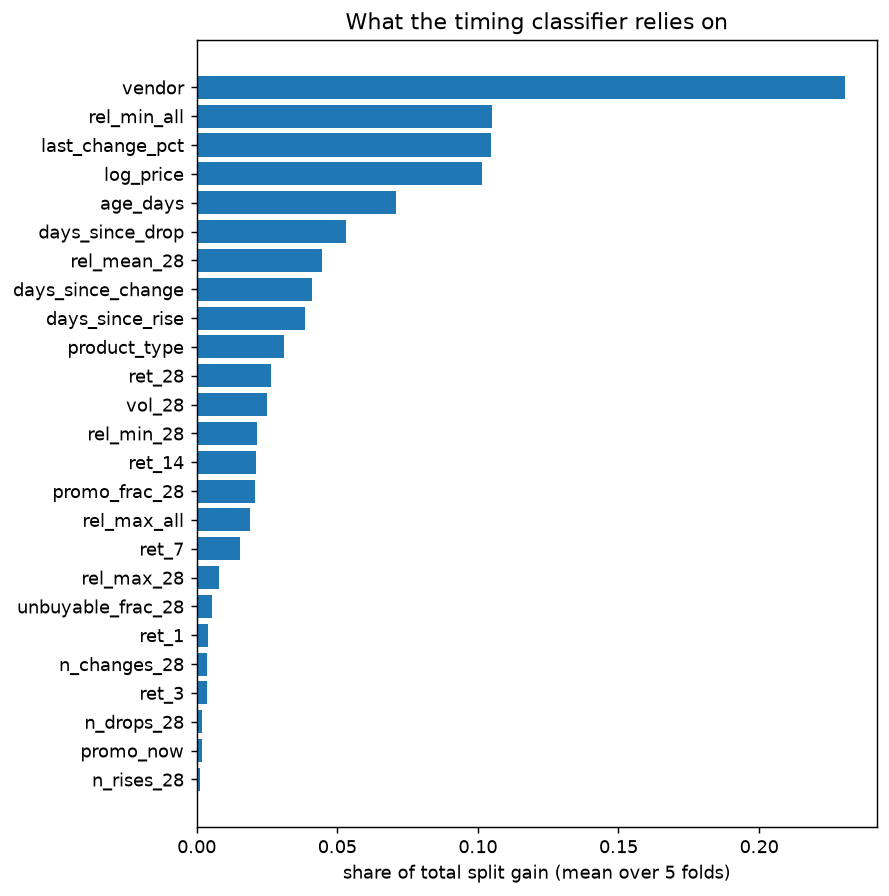
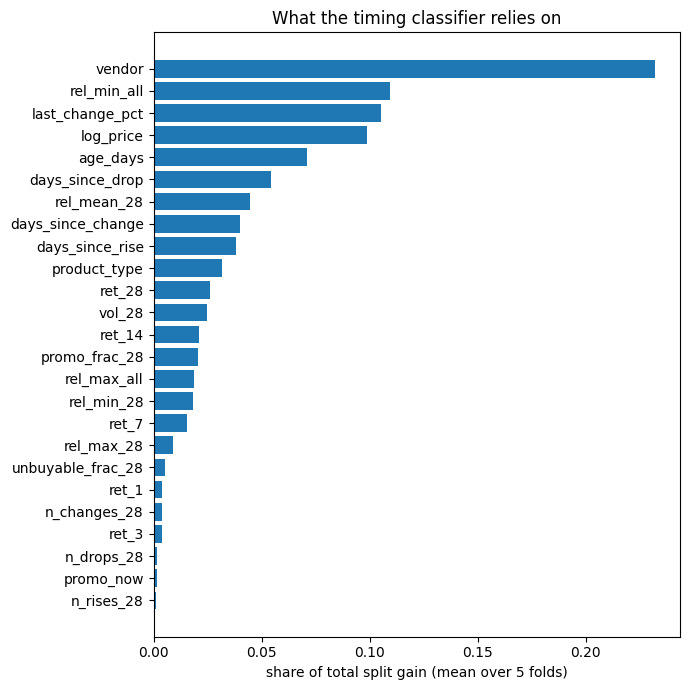
Journal and slides: quote the saved Colab run; Colab figures

Changed region(s): [[0.0, 0.0, 1.0, 0.9739], [0.3348, 0.913, 0.8826, 1.0], [0.2739, 0.5174, 0.3043, 0.5783]]

diff --git a/report/journal.md b/report/journal.md
@@ -136,9 +136,9 @@ expected calibration error (ECE), depth MAE in percentage points and dollars, sk
 
 ## 2.3 Results
 
-All numbers are from the saved run of the published notebook (LightGBM 4.7.0, scikit-learn 1.9.1). Re-running it on Colab, with other library
-versions, changes metrics only in the third decimal (for example GroupKFold PR-AUC 0.848 instead of 0.852, time-split log loss 0.615 instead of 0.640,
-model saving $23.37 instead of $23.57); every comparison and conclusion below is unchanged.
+All numbers and figures are from the Colab run saved in the published notebook. Re-running with other library versions (e.g. locally with
+LightGBM 4.7.0) changes metrics only in the third decimal (GroupKFold PR-AUC 0.852 instead of 0.848, model saving $23.57 instead of $23.37);
+every comparison and conclusion below is unchanged.
 
 **Label distribution.** 1-7 days: 5.8%, 8-14 days: 4.8%, 15-28 days: 5.7%, no drop within 28 days: 83.7%.
 
@@ -147,16 +147,16 @@ model saving $23.37 instead of $23.57); every comparison and conclusion below is
 
 | model                                      | log loss (lower better) | Brier             | ROC-AUC           | PR-AUC            | ECE           |
 | ------------------------------------------ | ----------------------- | ----------------- | ----------------- | ----------------- | ------------- |
-| Baseline A: overall class frequencies      | 0.624 ± 0.005           | 0.291 ± 0.003     | 0.500             | 0.163 ± 0.002     | 0.002         |
-| Baseline B: class frequencies per category | 0.601 ± 0.005           | 0.283 ± 0.003     | 0.655 ± 0.005     | 0.247 ± 0.005     | 0.003         |
-| **LightGBM**                               | **0.271 ± 0.008**       | **0.130 ± 0.004** | **0.953 ± 0.003** | **0.852 ± 0.006** | 0.008 ± 0.002 |
+| Baseline A: overall class frequencies      | 0.624 ± 0.008           | 0.291 ± 0.004     | 0.500             | 0.163 ± 0.003     | 0.003         |
+| Baseline B: class frequencies per category | 0.601 ± 0.006           | 0.283 ± 0.004     | 0.655 ± 0.005     | 0.247 ± 0.009     | 0.005         |
+| **LightGBM**                               | **0.276 ± 0.007**       | **0.133 ± 0.003** | **0.952 ± 0.002** | **0.848 ± 0.003** | 0.008 ± 0.002 |
 
 
-- Skill vs the per-category baseline: **54.9%** lower log loss, **54.0%** lower Brier score.
-- 95% bootstrap CIs (resampling SKUs): PR-AUC LightGBM [0.846, 0.860] vs baseline B [0.245, 0.261]; log loss [0.263, 0.278] vs [0.592, 0.610]. The intervals do not overlap.
+- Skill vs the per-category baseline: **54.1%** lower log loss, **53.1%** lower Brier score.
+- 95% bootstrap CIs (resampling SKUs): PR-AUC LightGBM [0.841, 0.856] vs baseline B [0.245, 0.260]; log loss [0.268, 0.282] vs [0.592, 0.610]. The intervals do not overlap.
 - Calibration: the reliability curve lies on the diagonal (ECE 0.008): when the model says 30%, about 30% of those products drop.
-- **Drop depth** (samples with a drop): MAE **3.8 percentage points ($32.56)** vs 7.9 pp ($62.99) for the per-category median baseline.
-- Every category beats its baseline; the weakest is games hardware (PR-AUC 0.70 vs 0.14), the strongest phones (0.95 vs 0.26).
+- **Drop depth** (samples with a drop): MAE **3.8 percentage points ($32.27)** vs 7.9 pp ($63.04) for the per-category median baseline.
+- Every category beats its baseline; the weakest is games hardware (PR-AUC 0.69 vs 0.14), the strongest phones (0.94 vs 0.26).
 
 ![Reliability curve (left) and PR-AUC per category against the random-guess level (right).](figures/calibration_and_categories.png)
 
@@ -165,15 +165,15 @@ model saving $23.37 instead of $23.57); every comparison and conclusion below is
 
 | true / predicted | 1-7 d    | 8-14 d   | 15-28 d  | no drop  |
 | -------------- | -------- | -------- | -------- | -------- |
-| 1-7 days       | **0.65** | 0.04     | 0.03     | 0.29     |
-| 8-14 days      | 0.07     | **0.60** | 0.04     | 0.29     |
-| 15-28 days     | 0.05     | 0.04     | **0.51** | 0.40     |
+| 1-7 days       | **0.64** | 0.04     | 0.03     | 0.30     |
+| 8-14 days      | 0.07     | **0.59** | 0.04     | 0.30     |
+| 15-28 days     | 0.05     | 0.05     | **0.48** | 0.42     |
 | no drop        | 0.01     | 0.01     | 0.01     | **0.98** |
 
 
-Near-term drops are recognised best; drops 15-28 days away are predicted as "no drop" 40% of the time — the further ahead, the less the current price pattern says.
+Near-term drops are recognised best; drops 15-28 days away are predicted as "no drop" 42% of the time — the further ahead, the less the current price pattern says.
 
-**What the model uses** (share of split gain): `vendor` 23.0%, `rel_min_all` 10.5%, `last_change_pct` 10.5%, `log_price` 10.1%, `age_days` 7.1%, `days_since_drop` 5.3%.
+**What the model uses** (share of split gain, approximate): `vendor` 23%, `rel_min_all` 11%, `last_change_pct` 10.5%, `log_price` 10%, `age_days` 7%, `days_since_drop` 5.5%.
 The dominant pattern (visible in the Top-10 plots) is JB's promotional cycle: a product that has just returned from a sale price to its regular price
 (`last_change_pct` > 0, price well above its historical minimum) is likely to be discounted again soon.
 
@@ -186,13 +186,13 @@ The dominant pattern (visible in the Top-10 plots) is JB's promotional cycle: a 
 | ------------------------- | --------- | --------- | --------- | --------- | ----- |
 | Baseline A: overall       | 0.604     | 0.280     | 0.500     | 0.156     | 0.004 |
 | Baseline B: per category  | **0.580** | 0.272     | 0.667     | 0.243     | 0.022 |
-| **LightGBM**              | 0.640     | 0.259     | **0.824** | **0.508** | 0.071 |
-| LightGBM + class weights  | 0.678     | 0.274     | 0.816     | 0.492     | 0.080 |
-| LightGBM without `vendor` | 0.605     | **0.259** | 0.787     | 0.463     | 0.058 |
+| **LightGBM**              | 0.615     | **0.256** | **0.824** | **0.508** | 0.067 |
+| LightGBM + class weights  | 0.677     | 0.275     | 0.817     | 0.497     | 0.078 |
+| LightGBM without `vendor` | 0.603     | 0.258     | 0.789     | 0.467     | 0.059 |
 
 
 On a later period the picture is mixed. The model still **ranks** products far better than the baselines (PR-AUC 0.51 vs 0.24, ROC-AUC 0.82 vs 0.67)
-and has the best Brier score, but its **log loss is worse than the per-category baseline** (0.640 vs 0.580) and it is less well calibrated (ECE 0.071).
+and has the best Brier score, but its **log loss is worse than the per-category baseline** (0.615 vs 0.580) and it is less well calibrated (ECE 0.067).
 Log loss punishes confident mistakes very heavily: promotions in late August did not repeat July's pattern for some brands, and the model was confidently wrong on them.
 So the model is reliable for *ordering* products by how likely they are to drop, but its probabilities should be recalibrated on recent data before being shown to users (section 2.4).
 Class weighting made both ranking and calibration worse, confirming the decision to train unweighted.
@@ -204,11 +204,11 @@ Class weighting made both ranking and calibration worse, confirming the decision
 | ------------------------------------------------------- | ------------------------- | ------------ | ----------------------- | --------- | ---------------- | ---------------------- |
 | Buy now                                                 | 0.00                      | 0.00         | 0%                      | 0%        | 0                | —                      |
 | Always wait (buy at first drop, else day 28)            | 8.53                      | −0.29        | 31%                     | 100%      | 25.4             | 0.34                   |
-| **Model** (WAIT if P(drop) > τ, τ = 0.15 in every fold) | **23.57**                 | **2.62**     | **86%**                 | 23%       | **4.1**          | **5.73**               |
+| **Model** (WAIT if P(drop) > τ; τ = 0.15 in 4 folds, 0.20 in 1) | **23.37**                 | **2.60**     | **86%**                 | 22.5%     | **4.0**          | **5.82**               |
 | Oracle (knows the future)                               | 27.29                     | 3.19         | 100%                    | 17%       | 2.3              | 11.92                  |
 
 
-95% bootstrap CI for the model's mean saving: **[$22.31, $24.82]** per purchase. Following the model captures 86% of the savings a perfect-foresight
+95% bootstrap CI for the model's mean saving: **[$22.13, $24.77]** per purchase. Following the model captures 86% of the savings a perfect-foresight
 shopper would get, while waiting on average about 4 days; "always wait" makes shoppers wait 25 days for a third of the benefit
 (and on average *loses* 0.29% of the price, because prices sometimes rise while waiting).
 
@@ -219,11 +219,11 @@ shopper would get, while waiting on average about 4 days; "always wait" makes sh
 
 | features                                                   | log loss  | Brier     | ROC-AUC   | PR-AUC    | ECE       | best mean saving |
 | ---------------------------------------------------------- | --------- | --------- | --------- | --------- | --------- | ---------------- |
-| JB features only                                           | 0.530     | 0.264     | 0.938     | 0.900     | 0.019     | $67.37           |
-| JB + The Good Guys (`tgg_gap`, `tgg_ret_7`, `tgg_cheaper`) | **0.522** | **0.260** | **0.940** | **0.904** | **0.016** | **$68.17**       |
+| JB features only                                           | 0.531     | 0.266     | 0.937     | 0.902     | 0.013     | $67.09           |
+| JB + The Good Guys (`tgg_gap`, `tgg_ret_7`, `tgg_cheaper`) | **0.523** | **0.262** | **0.939** | **0.905** | **0.012** | **$67.36**       |
 
 
-Answer: **a small, consistent improvement.** Competitor features improve every metric slightly (log loss −1.5%, PR-AUC +0.004, +$0.80 saved per purchase),
+Answer: **a small, consistent improvement.** Competitor features improve every metric slightly (log loss −1.5%, PR-AUC +0.003, +$0.27 saved per purchase),
 consistent with price matching, but the gain is small compared with what JB's own price history provides.
 Products sold by both retailers drop much more often (36% vs 16%), so they are also where a shopper gains most from waiting.
 
@@ -235,16 +235,16 @@ preferring products The Good Guys also sells, then the highest price.
 
 | category            | product                            | price now | P(drop ≤ 28 d) | expected drop if it drops | recommendation |
 | ------------------- | ---------------------------------- | --------- | -------------- | ------------------------- | -------------- |
-| Audio               | JBL BAR 1300 MK2 soundbar          | $1,999    | 0.016          | 9.8%                      | BUY NOW        |
-| Cameras             | Antigravity A1 8K 360 drone bundle | $2,799    | 0.128          | 17.1%                     | BUY NOW        |
-| Phones              | Apple iPhone Air 1TB               | $3,099    | 0.007          | 17.3%                     | BUY NOW        |
-| Computers           | Apple MacBook Pro 16" M5 Max 2TB   | $7,999    | 0.000          | 17.5%                     | BUY NOW        |
-| Games hardware      | Xbox Series X 1TB Digital          | $999      | 0.015          | 19.6%                     | BUY NOW        |
-| Health & beauty     | NutriBullet Baby Steam & Blend     | $179      | 0.985          | 20.5% (→ $142)            | WAIT           |
-| Small appliances    | Jura Z10 coffee machine            | $4,499    | 0.009          | 5.1%                      | BUY NOW        |
-| TVs                 | LG 97" OLED evo G6 [2026]          | $29,995   | 0.677          | 9.0% (→ $27,287)          | WAIT           |
-| Whitegoods          | ASKO heat-pump drying cabinet      | $6,999    | 0.007          | 6.8%                      | BUY NOW        |
-| Wearables & Outdoor | Pioneer SPH-EVO107DAB AV receiver  | $1,249    | 0.096          | 8.3%                      | BUY NOW        |
+| Audio               | JBL BAR 1300 MK2 soundbar          | $1,999    | 0.015          | 10.0%                     | BUY NOW        |
+| Cameras             | Antigravity A1 8K 360 drone bundle | $2,799    | 0.122          | 16.3%                     | BUY NOW        |
+| Phones              | Apple iPhone Air 1TB               | $3,099    | 0.016          | 19.2%                     | BUY NOW        |
+| Computers           | Apple MacBook Pro 16" M5 Max 2TB   | $7,999    | 0.000          | 17.0%                     | BUY NOW        |
+| Games hardware      | Xbox Series X 1TB Digital          | $999      | 0.016          | 19.9%                     | BUY NOW        |
+| Health & beauty     | NutriBullet Baby Steam & Blend     | $179      | 0.987          | 19.6% (→ $144)            | WAIT           |
+| Small appliances    | Jura Z10 coffee machine            | $4,499    | 0.005          | 7.4%                      | BUY NOW        |
+| TVs                 | LG 97" OLED evo G6 [2026]          | $29,995   | 0.664          | 8.6% (→ $27,414)          | WAIT           |
+| Whitegoods          | ASKO heat-pump drying cabinet      | $6,999    | 0.004          | 7.2%                      | BUY NOW        |
+| Wearables & Outdoor | Pioneer SPH-EVO107DAB AV receiver  | $1,249    | 0.134          | 7.4%                      | BUY NOW        |
 
 
 Most flagships get BUY NOW: their prices have been flat for two weeks or more, a pattern that rarely precedes a drop within 28 days (Apple products
@@ -269,9 +269,9 @@ realised future prices, and is piecewise constant in the model's scores (no usef
 Cross-entropy rewards putting probability on the correct bucket and treats every sample equally. The shopper's objective differs in three ways:
 
 1. **Dollar size is ignored.** A missed $5 drop on a $99 speaker costs the same loss as a missed $2,625 drop on a $10,499 gaming laptop (the costliest miss
-  in the out-of-fold results: *Alienware Area-51 18"*, P(drop) = 0.004, dropped to $7,874). Cross-entropy can improve while savings get worse if the gains come from cheap products.
+  in the out-of-fold results: *Alienware Area-51 18"*, P(drop) = 0.014, dropped to $7,874). Cross-entropy can improve while savings get worse if the gains come from cheap products.
 2. **The cost of being wrong is asymmetric.** A WAIT that is wrong can be very expensive: for a *Samsung 115" QN90F* at a $14,921 promotional price the model said
-  WAIT (P = 0.93), but the promotion ended and the price returned to $26,995. Bucket loss does not know that "no drop" can also mean "price goes up".
+  WAIT (P = 0.80), but the promotion ended and the price returned to $26,995. Bucket loss does not know that "no drop" can also mean "price goes up".
 3. **Waiting has a cost** (time), which the loss does not see; "always wait" illustrates this — 25 days of waiting for $8.53.
 
 **Mitigations used:** the WAIT threshold τ is tuned on dollars saved (not on log loss), in a nested way; the savings table is reported alongside the loss; and
@@ -292,8 +292,8 @@ to users, the probabilities should be recalibrated on the most recent weeks (e.g
 - **The unseen-product split is optimistic.** GroupKFold holds out products, not time: the training folds contain *other* products from the *same weeks*. Because
 JB runs brand- and category-wide promotions, the model can partly learn "this brand was discounted in week X" from other products and apply it to the held-out one
 (`vendor` being the top feature is consistent with this). The time split, which never trains on the test weeks, gives PR-AUC 0.51 instead of 0.85 and a log loss
-worse than the per-category baseline — this is the more honest estimate of real forecasting performance. Removing `vendor` in the time split lowers PR-AUC (0.46)
-but *improves* log loss (0.605) and calibration: brand information helps rank products going forward (brands have persistent discounting habits), but it also makes
+worse than the per-category baseline — this is the more honest estimate of real forecasting performance. Removing `vendor` in the time split lowers PR-AUC (0.47)
+but *improves* log loss (0.603) and calibration: brand information helps rank products going forward (brands have persistent discounting habits), but it also makes
 the model over-confident when a brand's promotion calendar changes, and part of its apparent value in GroupKFold is borrowed from the test period.
 - **Near-duplicate products.** Colour or storage variants of the same model have different SKUs and can fall in different folds, which also inflates GroupKFold slightly.
 - **The time-split test period (late August) is a quiet period** with no major sale events, and only one time split fits in 5 months.
@@ -305,7 +305,7 @@ the model over-confident when a brand's promotion calendar changes, and part of 
 - **Only ~5 months of data** (full catalogue from 1 May 2026): no Black Friday, Boxing Day or November Click Frenzy; the model cannot know yearly seasonality and was deliberately given no calendar features.
 - **Scrape gaps**: every 2-3 days, plus a 12-day gap (27 May - 8 Jun) during the end-of-financial-year sales; drop timing is only known to within a scrape interval.
 - **Censoring handled by exclusion**: decision days after 31 August are not used, wasting the last 4 weeks of data (a survival model could use them).
-- **Probability drift over time**: calibration degrades on a later period (ECE 0.071); a production system would need periodic retraining and recalibration.
+- **Probability drift over time**: calibration degrades on a later period (ECE 0.067); a production system would need periodic retraining and recalibration.
 - **Price errors in the source data**: a few listings show implausible jumps (e.g. a $2,539 tally light "dropping" to $179), which pass the persistence rule and count as drops.
 - **Missing drivers**: JB Perks member coupons, in-store-only prices, supplier promotions, new-model launches.
 - **Partial competitor coverage**: only 13% of samples match The Good Guys by model number; Harvey Norman data stopped on 20 Aug 2026 and was not used.

diff --git a/slides/qa_cheatsheet.md b/slides/qa_cheatsheet.md
@@ -2,26 +2,33 @@
 
 Answer short. "I don't know, I would check X" is a valid, point-earning answer.
 
-## Where things are in the notebook (cell numbers in the Colab notebook)
+## Where things are in the notebook (the [n] number Colab shows next to each code cell after "Run all")
 
-| component | cell | one-line answer |
+| component | code cell | one-line answer |
 |---|---|---|
-| Data download | 5 | `load()` downloads the Parquet snapshot from GitHub if not present. |
-| Partial scrape days removed | 7 | Days with < 50% of the rolling-median row count. |
-| Daily grid, buyable prices | 9 | Dates × SKUs matrix; prices kept only on days the listing was buyable (unknown before June counts as buyable). |
-| **Labels** | 11 | First day in t+1..t+28 with price ≤ 95% of today's, and the next scrape also ≤ 95%. Bucket 0/1/2/3; depth = 1 − drop price / price today. |
-| Decision dates | 13 | First scrape of each week, 8 Jun - 31 Aug (after that the 28-day future is unknown). |
-| **Features** | 15 | Rolling / cumulative windows ending at day t → no future information. |
-| Dummy interface | 17 | Rule-based predictor with the same input/output, written before the model. |
-| **Model, loss, optimiser** | 19 | `CLF_PARAMS` (multiclass = softmax cross-entropy), `REG_PARAMS` (huber, alpha = δ = 5), `fit_lgb` (early stopping on 10% of training SKUs). |
-| Metrics | 21 | `evaluate()`: log loss, Brier, ROC-AUC, PR-AUC, ECE. |
-| **Cross-validation** | 23 | 5-fold GroupKFold by SKU. |
-| Bootstrap CIs | 26 | Resample whole SKUs 200 times. |
-| Time split + class weights + no-vendor | 33 | Train ≤ 15 Jul, test 12-31 Aug. |
-| **Savings simulator** | 35 | WAIT if P(drop) > τ; τ chosen on the other 4 folds. |
-| Error analysis | 38 | Costliest WAIT mistakes / missed drops. |
-| Top-10 + `predict_drop` | 40-41 | One flagship per category; final model refit on all samples. |
-| Competitor ablation | 46 | The Good Guys price gap features, matched by model number. |
+| Setup, constants | [1] | 5% threshold, 28-day horizon, 4 bucket names, decision dates 1 Jun - 31 Aug. |
+| Data download | [2] | `load()` downloads the Parquet snapshot from GitHub if not present. |
+| Partial scrape days removed | [3] | Days with < 50% of the rolling-median row count. |
+| Daily grid, buyable prices | [4] | Dates × SKUs matrix; prices kept only on days the listing was buyable (unknown before June counts as buyable). |
+| **Labels** | [5] | First day in t+1..t+28 with price ≤ 95% of today's, and the next scrape also ≤ 95%. Bucket 0/1/2/3; depth = 1 − drop price / price today. |
+| Decision dates | [6] | First scrape of each week, 8 Jun - 31 Aug (after that the 28-day future is unknown). |
+| **Features** | [7] | Rolling / cumulative windows ending at day t → no future information. |
+| Dummy interface | [8] | Rule-based predictor with the same input/output, written before the model. |
+| **Model, loss, optimiser** | [9] | `CLF_PARAMS` (multiclass = softmax cross-entropy), `REG_PARAMS` (huber, alpha = δ = 5), `fit_lgb` (early stopping on 10% of training SKUs). |
+| Metrics | [10] | `evaluate()`: log loss, Brier, ROC-AUC, PR-AUC, ECE. |
+| **Cross-validation** | [11] | 5-fold GroupKFold by SKU. |
+| Skill scores, depth MAE | [12] | 1 − model / baseline. |
+| Bootstrap CIs | [13] | Resample whole SKUs 200 times. |
+| Calibration + per-category | [14] | Reliability curve; PR-AUC per category. |
+| Feature importance | [15] | Share of split gain. |
+| Timing confusion matrix | [16] | Rows = true bucket. |
+| Time split + class weights + no-vendor | [17] | Train ≤ 15 Jul, test 12-31 Aug. |
+| **Savings simulator** | [18]-[19] | WAIT if P(drop) > τ; τ chosen on the other 4 folds. |
+| Error analysis | [20] | Costliest WAIT mistakes / missed drops. |
+| Top-10 selection | [21] | One flagship per category. |
+| Final model + `predict_drop` | [22]-[23] | Refit on all samples; deployment interface. |
+| Top-10 timelines | [24] | Price history, real drops, out-of-fold P(drop). |
+| Competitor ablation | [25] | The Good Guys price gap features, matched by model number. |
 
 ## Likely questions
 
@@ -31,7 +38,7 @@ Answer short. "I don't know, I would check X" is a valid, point-earning answer.
 
 **What is the loss?** Multi-class cross-entropy: −log of the probability given to the true bucket. Example: true bucket gets 0.15 → loss 1.90.
 
-**Why cross-entropy and not accuracy?** 83% of samples are "no drop", so always predicting "no drop" gets 83% accuracy and is useless. Cross-entropy rewards good probabilities.
+**Why cross-entropy and not accuracy?** 84% of samples are "no drop", so always predicting "no drop" gets 84% accuracy and is useless. Cross-entropy rewards good probabilities.
 
 **Why PR-AUC?** Drops are the rare class; PR-AUC focuses on how precisely the model finds them. Random guessing gives PR-AUC = drop rate (0.16).
 
@@ -39,17 +46,19 @@ Answer short. "I don't know, I would check X" is a valid, point-earning answer.
 
 **Why is the time-split score lower?** GroupKFold trains on other products from the *same weeks*; if JB discounts a whole brand that week, the model sees it. The time split never sees the test weeks → honest.
 
-**Why no class weights?** Tested on the time split: PR-AUC 0.49 vs 0.51, log loss 0.678 vs 0.640, ECE 0.080 vs 0.071 — worse on every metric.
+**Why is the later-period log loss worse than the baseline?** Log loss punishes confident mistakes; some brands' late-August promotions did not follow July's pattern, and the model was confidently wrong (0.615 vs 0.580). It still ranks drops far better (PR-AUC 0.51 vs 0.24). Fix: recalibrate on recent weeks (isotonic regression), retrain regularly.
 
-**Why is the later-period log loss worse than the baseline?** Log loss punishes confident mistakes; some brands' late-August promotions did not follow July's pattern, and the model was confidently wrong. It still ranks drops far better (PR-AUC 0.51 vs 0.24). Fix: recalibrate on recent weeks (isotonic regression), retrain regularly.
+**Why no class weights?** Tested on the time split: PR-AUC 0.497 vs 0.508, log loss 0.677 vs 0.615, ECE 0.078 vs 0.067 — worse on every metric.
 
 **Why Huber for depth?** Squared error would be dominated by rare 40-60% clearance drops; Huber is quadratic below δ = 5 pp and linear above.
 
-**How many trees / leaves?** Up to 63 leaves per tree, learning rate 0.05, ~730-940 trees per fold (early stopping, patience 50).
+**How many trees / leaves?** Up to 63 leaves per tree, learning rate 0.05, ~680-850 trees per fold (early stopping, patience 50).
 
-**How is the WAIT threshold chosen?** Maximise mean dollars saved on the other 4 folds (nested); it came out 0.15 in every fold.
+**How is the WAIT threshold chosen?** Maximise mean dollars saved on the other 4 folds (nested); it came out 0.15 in four folds and 0.20 in one.
 
 **Why 0.15 and not 0.5?** Waiting when a drop does not come usually costs little (price mostly stays the same), but catching a drop saves a lot → the optimum is low.
+
+**Why do my Colab numbers differ slightly from a local run?** Different LightGBM / scikit-learn versions; differences are in the third decimal and no conclusion changes. The journal quotes the saved Colab run.
 
 **Is 5% arbitrary?** Yes, a design choice (smaller changes are noise / rounding); a sensitivity check with other thresholds is future work.
 
@@ -57,7 +66,7 @@ Answer short. "I don't know, I would check X" is a valid, point-earning answer.
 
 **What is censoring and how did you handle it?** For decision days after 31 Aug the 28-day future is not yet observed. I excluded them; a survival model could use them (future work).
 
-**Did competitor prices help?** Slightly: PR-AUC 0.900 → 0.904, log loss 0.530 → 0.522, +$0.80 saved per purchase, on the 2,095 products both retailers sell. Consistent with price matching, but small next to JB's own history.
+**Did competitor prices help?** Slightly: PR-AUC 0.902 → 0.905, log loss 0.531 → 0.523, +$0.27 saved per purchase, on the 2,095 products both retailers sell. Consistent with price matching, but small next to JB's own history.
 
 **Why did the numbers change from the first run?** The first run used a 20% product sample; the final run uses the full catalogue (15,322 products).
 

diff --git a/slides/slides.md b/slides/slides.md
@@ -14,7 +14,7 @@ recent price changes (1-28 days), price vs its own max/min, days since last chan
 **Ground truth:** read off my own scrapes 28 days later. Scored with log loss, PR-AUC, calibration, and **dollars saved**.
 
 > Speaker notes: "The input is one product on one day... the output is four probabilities that sum to one... I compare them with what my scraper saw in the following 28 days."
-> Point at notebook cell 11 (labels) if asked how the truth is built.
+> Point at code cell [5] in Colab (labels) if asked how the truth is built.
 
 ---
 
@@ -37,24 +37,24 @@ recent price changes (1-28 days), price vs its own max/min, days since last chan
 |---|---|---|
 | unseen products (5-fold GroupKFold) PR-AUC | 0.25 | **0.85** |
 | later period (train ≤ 15 Jul, test 12-31 Aug) PR-AUC | 0.24 | **0.51** |
-| log loss (GroupKFold) | 0.601 | **0.271** |
-| log loss (later period) | **0.580** | 0.640 |
+| log loss (GroupKFold) | 0.601 | **0.276** |
+| log loss (later period) | **0.580** | 0.615 |
 | depth error | 7.9 pp | **3.8 pp** |
 
 Calibration on unseen products: on the diagonal (ECE 0.008).
 **Critical point:** GroupKFold lets other products of the *same brand in the same week* into training → brand-wide promotions leak; the time split is the honest estimate.
 On the later period the model still ranks drops twice as well, but is over-confident (log loss worse than baseline) → needs recalibration on recent weeks.
 
-> Show notebook: reliability curve (cell 28), time-split table (cell 33).
+> Show notebook: reliability curve (code cell [14]), time-split table (code cell [17]).
 
 ---
 
 ## Slide 4 — Does it save money? + research question (1:00)
 
-* Buy-or-wait simulation: **model saves $23.57 per purchase (CI $22.31-24.82), 86% of a perfect-foresight oracle, waiting 4.1 days on average**;
+* Buy-or-wait simulation: **model saves $23.37 per purchase (CI $22.13-24.77), 86% of a perfect-foresight oracle, waiting 4.0 days on average**;
   "always wait" saves $8.53 after 25 days.
 * **Loss ≠ objective:** cross-entropy treats a $5 and a $1,500 miss the same; worst WAIT error: a Samsung 115" TV whose promo ended ($14,921 → $26,995). Threshold τ tuned on dollars, not on loss.
-* **Research question:** do The Good Guys' prices help? **A little** — on 2,095 shared products every metric improves slightly (PR-AUC 0.900 → 0.904, +$0.80 per purchase).
-* Demo: `predict_drop(892006, "2026-09-28")` → LG 97" OLED G6 at $29,995, back to full price on 25 Sep, P(drop) 0.68, **WAIT**.
+* **Research question:** do The Good Guys' prices help? **A little** — on 2,095 shared products every metric improves slightly (PR-AUC 0.902 → 0.905, +$0.27 per purchase).
+* Demo: `predict_drop(892006, "2026-09-28")` → LG 97" OLED G6 at $29,995, back to full price on 25 Sep, P(drop) 0.66, **WAIT**.
 
-> End on the live demo (cell 41).
+> End on the live demo (code cells [22]-[23]).
